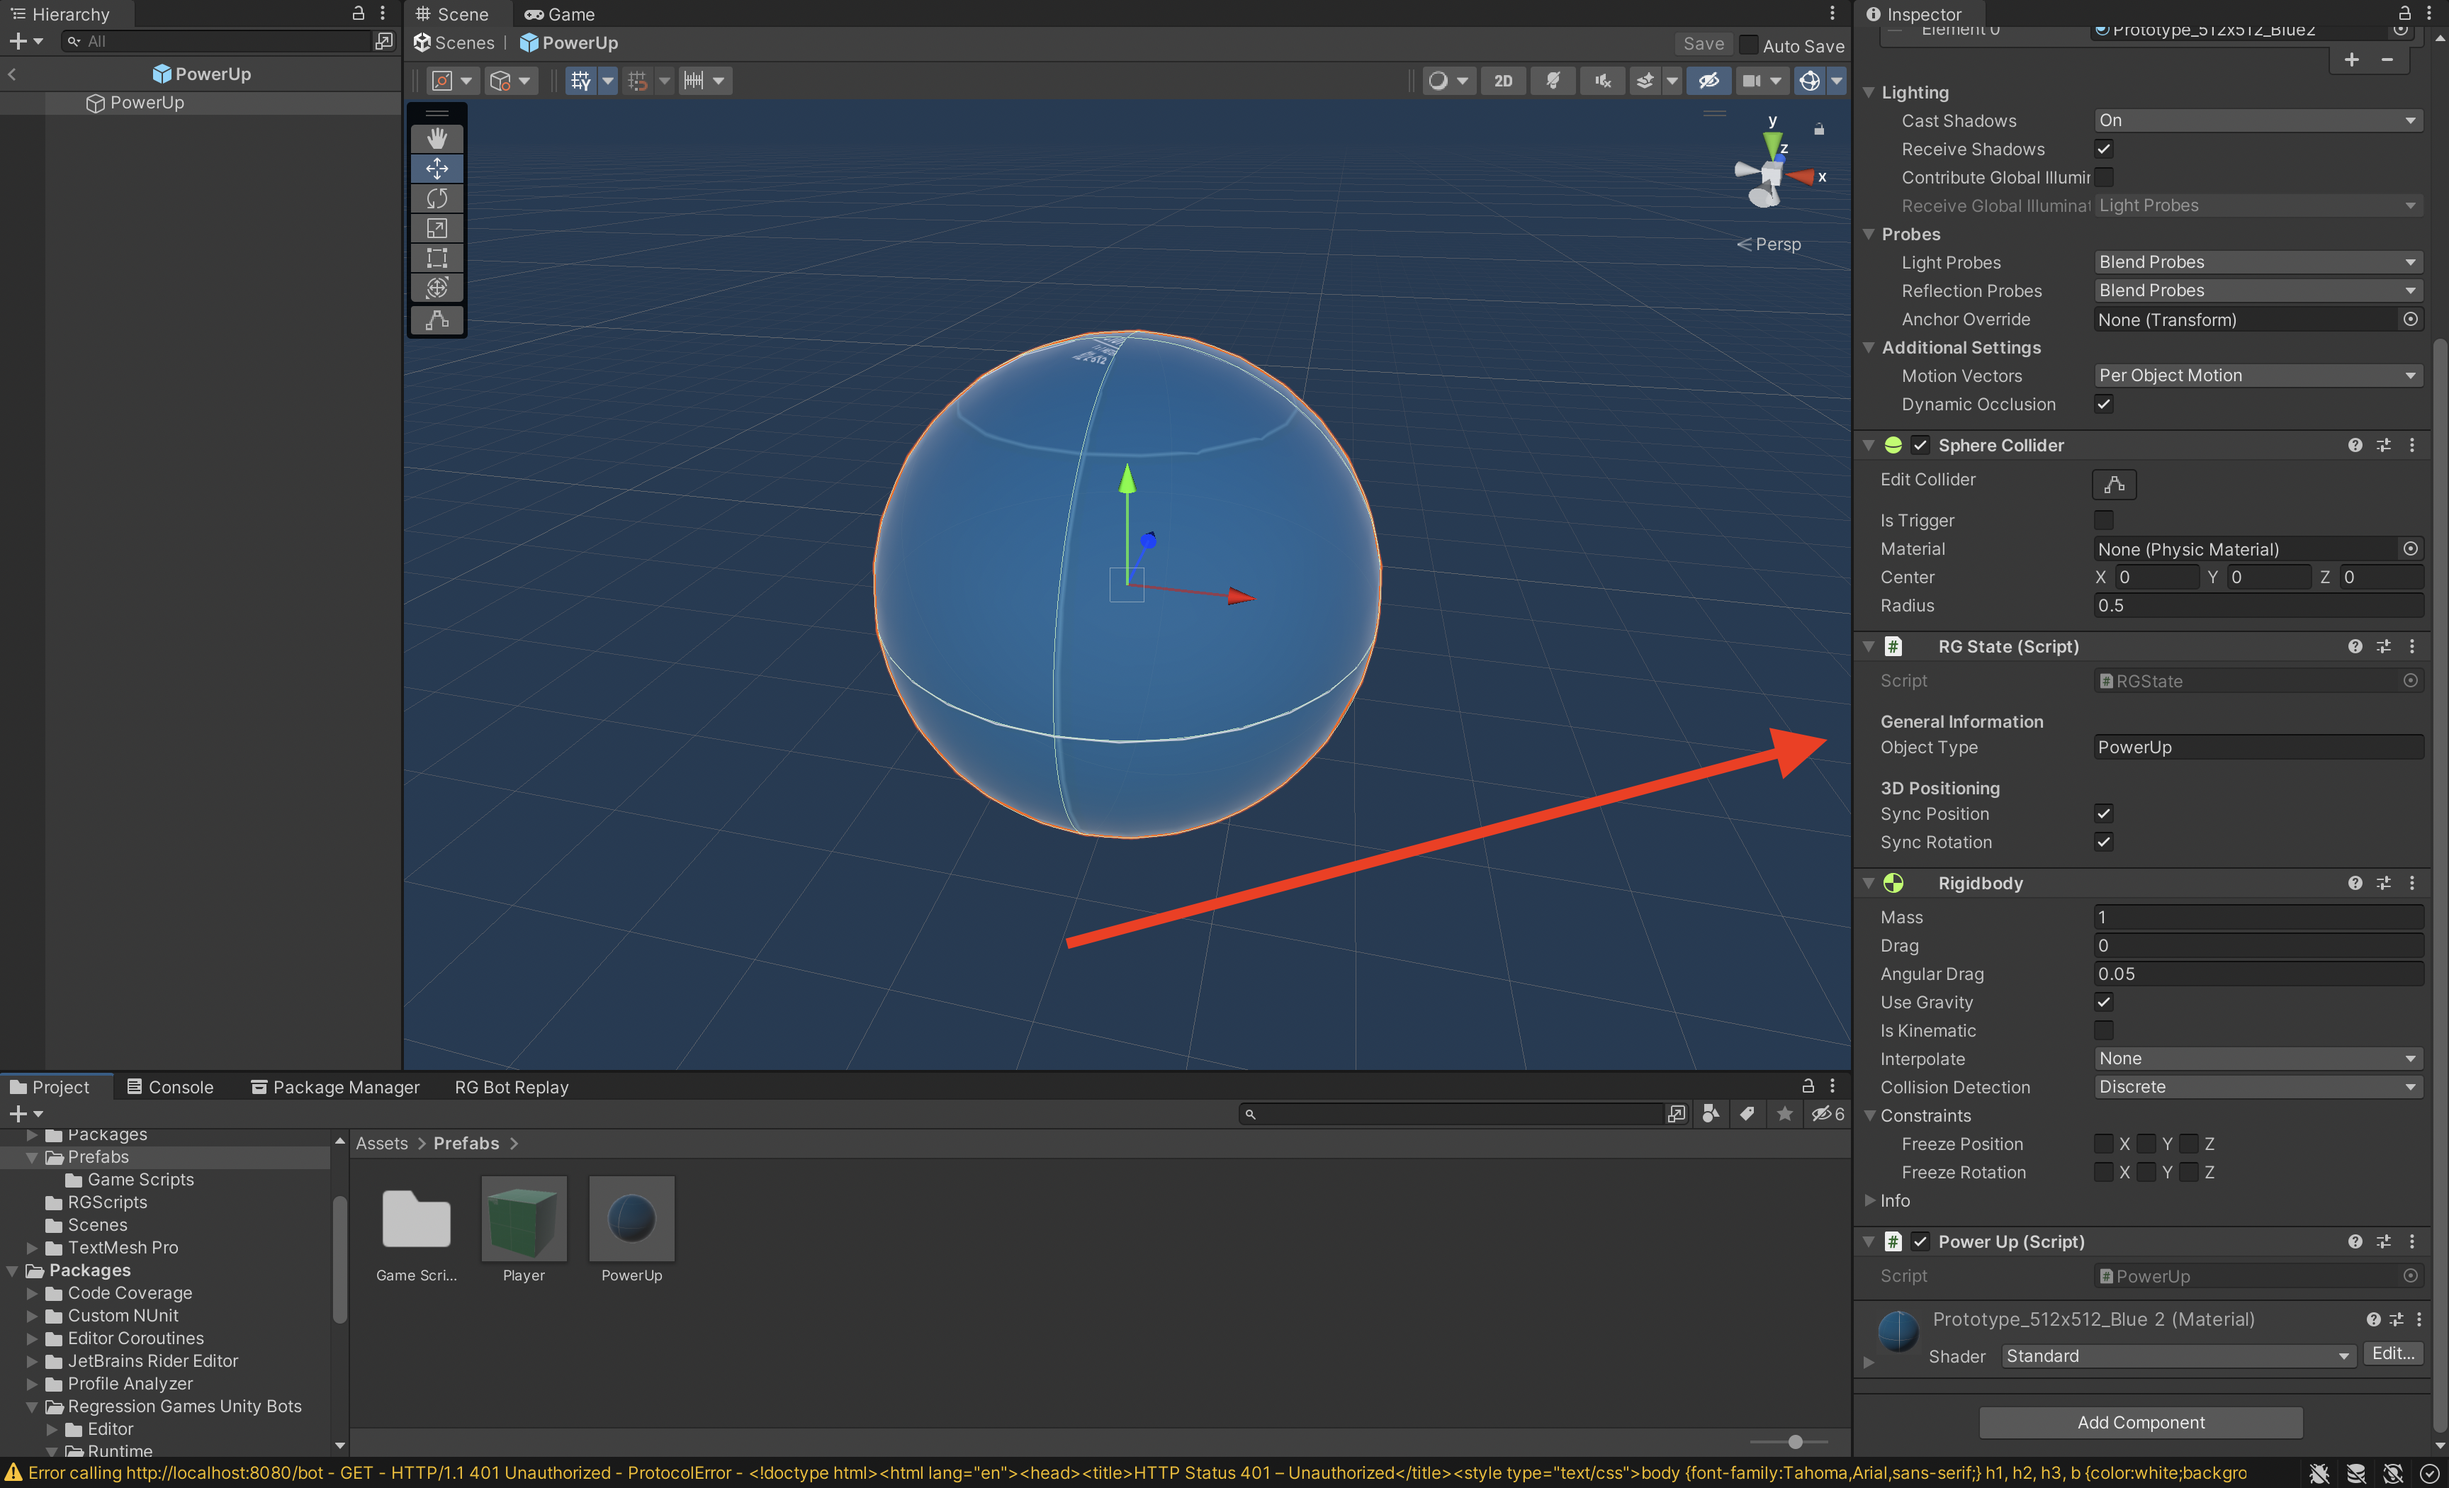
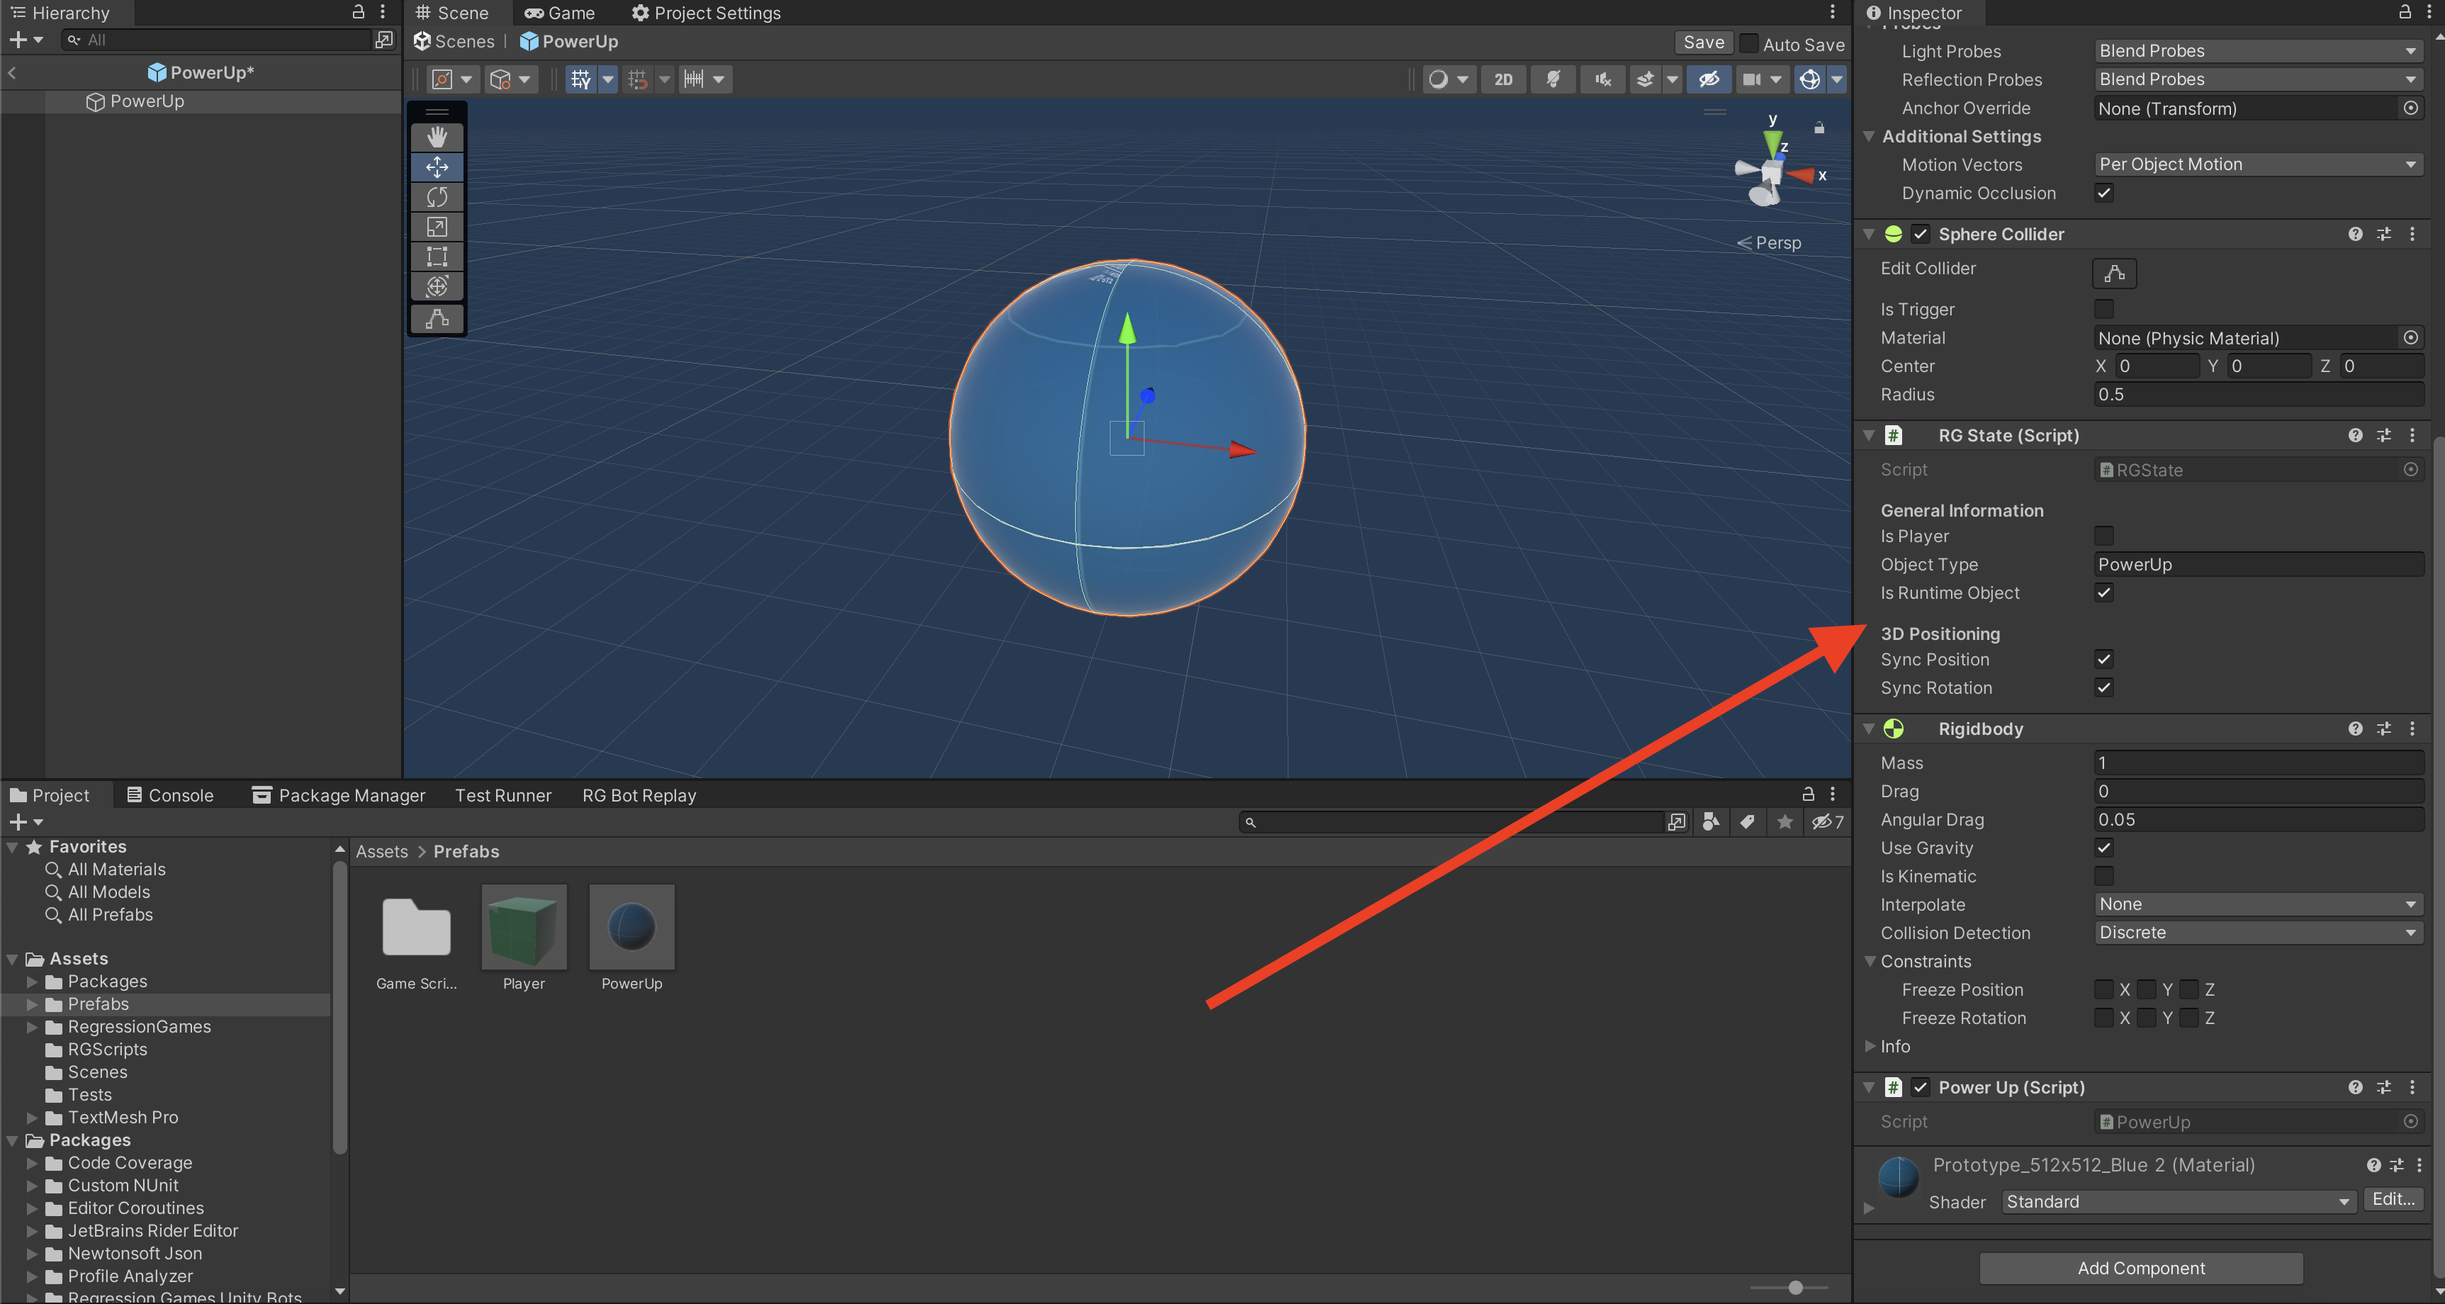
Fix a few docs related to state

diff --git a/docs/studios/unity/tutorials/first_tutorial.md b/docs/studios/unity/tutorials/first_tutorial.md
@@ -192,9 +192,10 @@ You can do this by checking out the docs and examples for [`RGState.GetState()`]
 
 In this scene, open the `Player` prefab located in the **Assets > Prefabs** folder by double clicking
 the prefab, click **Add Component**, and then add the `RGState` component by searching for "RG State" in the component
-search modal that pops up. Once that component is added to the prefab, change the `Object Type` to `Player`. 
-Make sure to save the changes you make to these existing prefabs by clicking **Save**! Repeat this process for
-the `PowerUp` prefab, but change the `Object Type` to `PowerUp`.
+search modal that pops up. Once that component is added to the prefab, change the `Object Type` to `Player`, make sure
+that both `Is Player` and `Is Runtime Object` are checked. Make sure to save the changes you make to these existing 
+prefabs by clicking **Save**! Repeat this process for the `PowerUp` prefab, but change the `Object Type` to `PowerUp`, and
+only have `Is Runtime Object` checked (`Is Player` should be off).
 
 ![Screenshot of the prefab with a RG State script.](first_bot_tutorial_images/tutorial_6_prefab.png)
 
